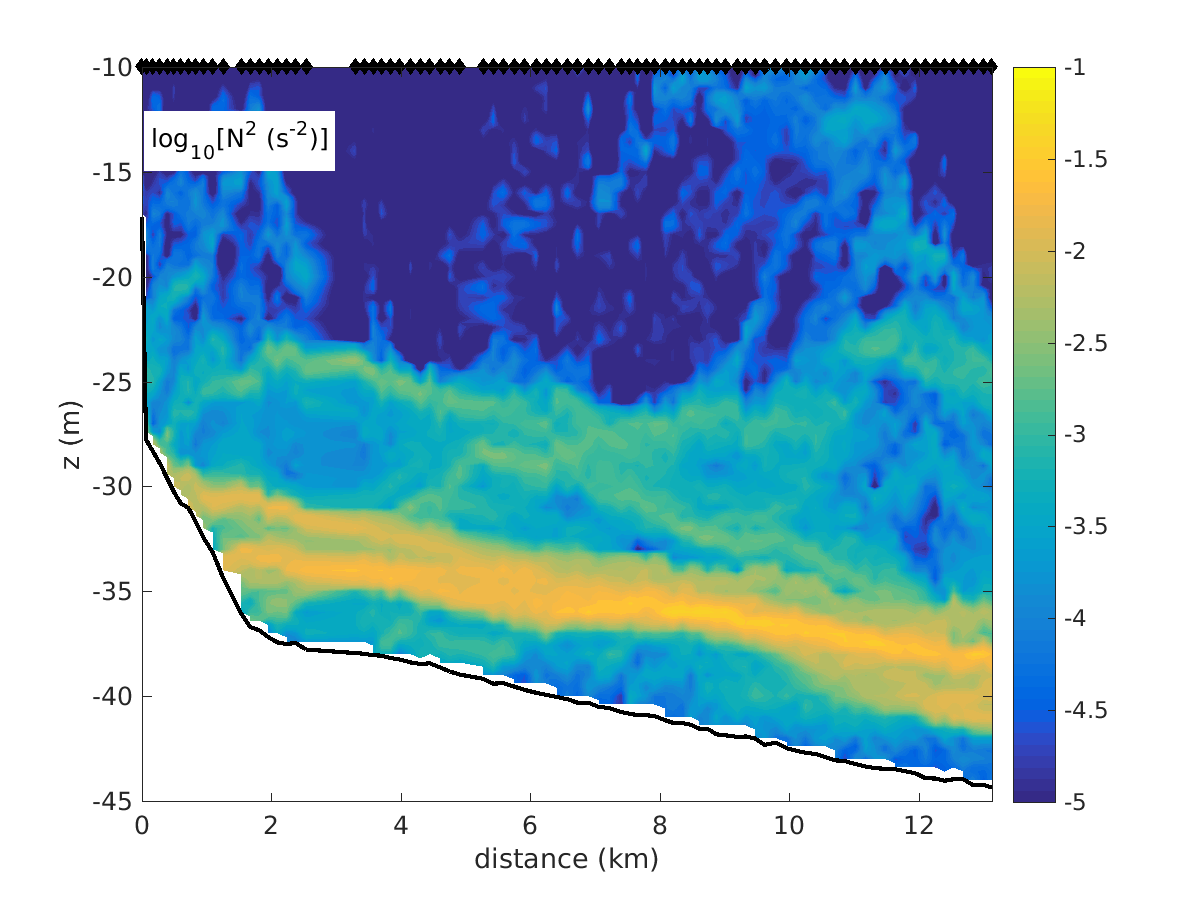
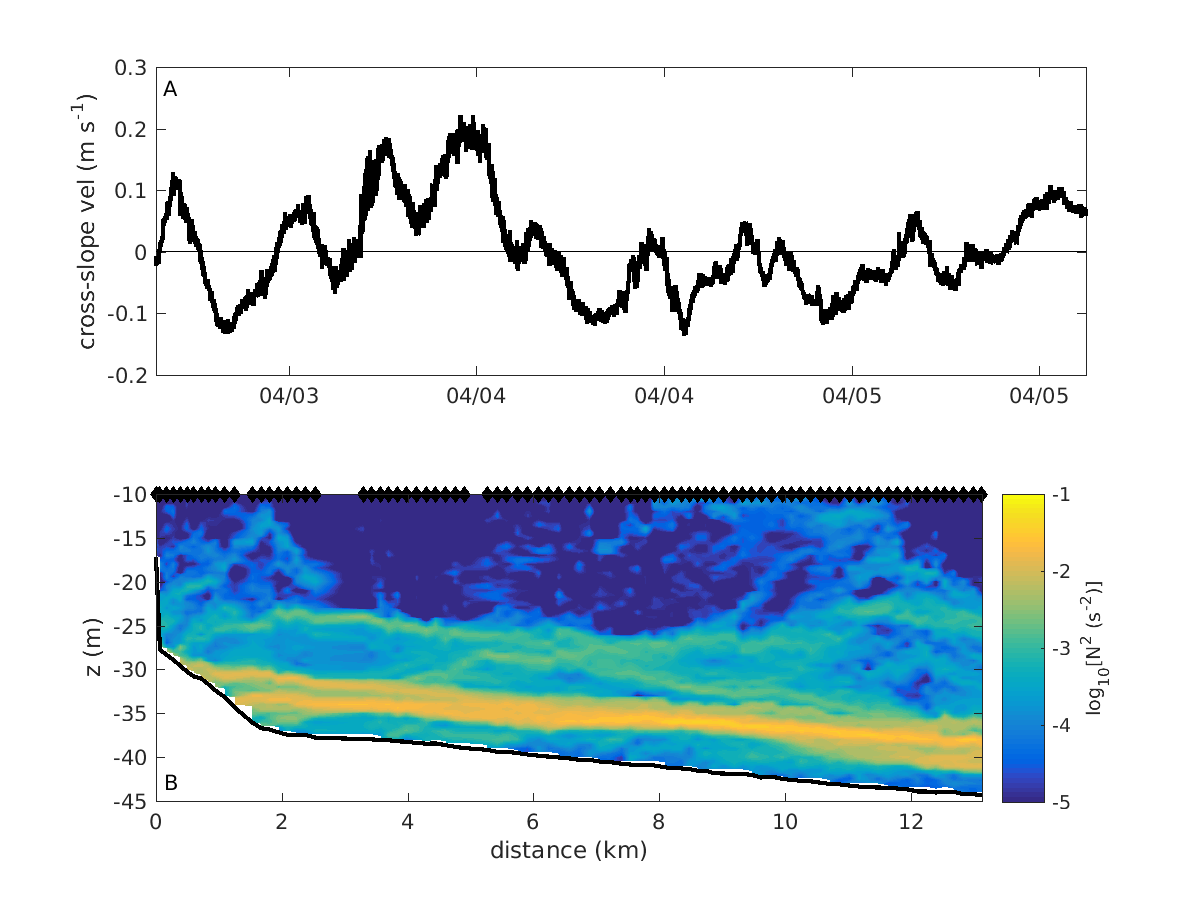
intro datenkapitel

diff --git a/kapitel-2.tex b/kapitel-2.tex
@@ -1,40 +1,123 @@
-\chapter{Measurements}
+\chapter{Sediment Transport in the German Coastal Baltic Sea}
 \label{kap-measure}
+
+ABSTRACT
 
 \section{Introduction}
 
-\section{Study Area and Instrumentation}
+The investigation of sediment transport patterns and the physical processes 
+involved is inevitable for the understanding and mapping of all near bottom 
+biogeochemical processes. Nutrients as well as pollutants are distributed or 
+accumulated together with the sediment and affect benthic communities and the 
+exchange of dissolved substances from pore water with the overlying water. 
+Especially in coastal areas, a broad variety of hydrodynamical processes affect 
+resuspension, transport and accumulation of sediments. In very shallow areas, 
+wind waves govern the sediment dynamics, whilst mean flow, near bottom 
+turbulence and interior stratification becomes more and more important on the 
+transition to the deeper areas further away from the coast.
 
-We obtained hydrographic and turbulence data at 
-several locations throughout the German coastal area during three cruises with 
-R/V \textit{Alkor} in spring 2014 (AL434, 28.03.-08.04.2014), R/V 
-\textit{Elisabeth Mann Borgese} in spring 2015 (EMB100, 09.04.-16.04.2015) and 
-R/V \textit{Maria S. Merian} in winter 2016 (MSM50, 05.01.-29.01.2016). Here, 
-we exclusively discuss data obtained in the transition zone from the coast off 
-the island R\"{u}gen (called Tromper Wiek (TW), around 30~m water depth) to 
-the approximately 45~m deep Arkona Basin (AB). The exact positions of deployed 
-moorings and ship-based microstructure profiler transects are indicated in 
-\fig{studyarea}.
+In the presence of only negligible tidal motions, coastal areas of the Baltic 
+Sea are a good opportunity to study the interplay of waves and currents and its 
+effects on sediment transport patterns. Numerous studies have already been 
+carried out to investigate suspended matter transport in the German Baltic Sea. 
+In the \textit{Ba}ltic Sea \textit{Sy}stem \textit{S}tudy (BASYS) project, the 
+pathways of fine-grained sediment from the near-shore regions to the deep 
+basins were investigated with the help of numerical models and ship-based 
+measurements \citep[][]{basys1, basys2, leipe2000}. The research project 
+\textit{Dynamic} of \textit{N}atural and \textit{A}nthropogenic 
+\textit{S}edimentation (DYNAS) investigated the spatially resolved 
+resuspension and transport patterns in the whole near-coastal area of the 
+south-western Baltic Sea, using a numerical model 
+\citep[][]{dynas1, dynas2}. These studies, amongst many others, focus mainly on 
+the large scale sediment transport and aim to identify erosional and 
+depositional areas of the sea floor. 
+
+The small-scale turbulent motions, which are an important factor for sediment 
+transport processes, have not been included in the projects mentioned above. 
+They affect the bottom shear stress that causes resuspension and determine how 
+suspended matter is mixed up in the water column. In the interdisciplinary 
+project The \textit{Se}rvice of sediments in German \textit{Co}stal 
+\textit{S}eas (SECOS), during which the present study is carried out, these 
+small-scale processes are examined with an extensive field work campaign. This 
+included ship-based micro-structure measurements and long-term mooring 
+deployments. With the combined measurement of suspended matter concentration 
+using optical backscatter sensors and mean flow structures as well as turbulent 
+motions we aim on determining the relative effect turbulence has in 
+resuspension and distribution of sediment. 
+
+One of the most interesting regions where measurements were carried out was the 
+transition zone from near-coast to a deeper basin north of the island 
+R\"{u}gen. This can be regarded as a prototype study side, as it covers shallow 
+as well as deeper areas, which are affected by waves to different extends, and 
+it includes the basin structure of the Baltic Sea. To our knowledge, 
+no turbulence measurements with focus on sediment dynamics were carried out in 
+this region so far.
+ 
+In addition, this area provides the prerequisites for the occurrence of 
+slope-induced tidal straining \citep[][]{UmlaufBurchard2011a, 
+schulzumlauf2016}, as visible in Fig.\ \ref{abslope}. Both slope angle and 
+interior vertical stratification are sufficient to trigger residual sediment 
+transport under an oscillatory current. Although tides are negligible in the 
+Baltic Sea, we discovered a distinct signal of inertial oscillations with a 
+period of approximately 17~h over the whole time of a five day continuous 
+current measurement. This setting surely exceeds the capability of the 
+one-dimensional numerical model used in \cite{schulzumlauf2016}, as the slope 
+angle changes and the vertical stratification is greatly enhanced in the 
+region of the halocline, making the problem at least two-dimensional. 
+Nevertheless, sediment transport from the basin up the slope could be induced 
+by slope-induced tidal straining under the conditions given in this region.
+
+ \begin{figure}[ht]
+\includegraphics[width=40pc]{bilder/abslope.png}
+ \caption{(b) Topographic and hydrologic structure in the study area 
+obtained from microstructure transect T1 (see Tab.\ \ref{mss} and Fig.\ 
+\ref{studyarea}) in 2016. The steep slope on the left hand side has an 
+inclination of approximately $5 \times 10^{-3}$, the mild slope further to the 
+right of around $7 \times 10^{-4}$. Color indicates the buoyancy frequency 
+$N^2$. In (a), ca. five days of the cross-slope (i.e. southward) near-bottom 
+current are displayed, obtained with a 1200~kHz ADCP in April 2014 (see Tab.\ 
+\ref{deployments}, first column.)}
+ \label{abslope}
+ \end{figure}
+ 
+\section{Study Area}
+
+The general properties of the Baltic Sea were already discussed in the last 
+chapter. Here, we give a brief introduction to the general hydrodynamic 
+processes which govern the current system near the measurement site on the one 
+hand, and the sediment distribution on the other.
+
+\subsection{Hydrology}
+
+In \fig{studyarea}, the bathymetry of the study area and its position in the 
+Western Baltic Sea is displayed. In a study on the Pomeranian Bight (i.e. the 
+shallow area connecting the Arkona Basin in the west and the Bornholm Basin in 
+the east and where the mouth of the Oder river is located), \cite{lass2001} 
+also investigated the study site described here both observationally and with a 
+high-resolution circulation model. In addition, the same authors carried out 
+measurements in two consecutive winters in the Arkona Basin and analyzed the 
+flow dynamics there \citep[][]{lass2003}. These two studies give a good insight 
+of the flow patterns in the area where our investigations were performed.
+
+They found that two major factors determine the current system here. Barotropic 
+jets originating from inflowing North Sea water follow the northern coast of 
+R\"{u}gen 
+
+LASS2001 und LASS2003 zusammenfassen.
+
  \begin{figure}[ht]
  \centering
 \includegraphics[width=17cm]{bilder/studyarea.pdf}
  \caption{Bathymetric map of the Western Baltic Sea and an enlargement of the 
-study area. Deployments during cruise AL434 are indicated in yellow, from EMB100 
-in green and from cruise MSM50 in magenta.}
+study area. Deployments during cruise AL434 are indicated in yellow, from 
+EMB100 in green and from cruise MSM50 in magenta.}
  \label{studyarea}
  \end{figure}
- 
- \begin{figure}[ht]
-\includegraphics[width=40pc]{bilder/abslope.png}
- \caption{Topographic and hydrologic structure in the study area obtained from 
-microstructure transect T1 in 2016. The steep slope on the left hand side has 
-an inclination of approximately $5 \times 10^{-3}$, the mild slope further to 
-the right of around $7 \times 10^{-4}$. Color indicates the buoynacy frequency 
-$N^2$.}
- \label{abslope}
- \end{figure}
 
- Sediment distribution in this area is heterogeneous in the shallow regions 
+ \FloatBarrier
+\subsection{Sedimentology}
+
+  Sediment distribution in this area is heterogeneous in the shallow regions 
 with predominately medium to fine sand. At water depths below 25 - 30~m in the 
 Arkona Basin, sediment is finer and consists homogeneously of silt 
 (\fig{tauberkarte}). In the vicinity of TW, a special type of fine grained and 
@@ -49,11 +132,24 @@ erosional and depositional sites in this area, yielding that the Tromper Wiek
 region is depositional as well. This study also pointed out that muddy 
 sediments accumulated below the halocline in this region.
  \begin{figure}[ht]
-\includegraphics[width=40pc]{bilder/TW.pdf}
+\includegraphics[width=30pc]{bilder/TW.pdf}
  \caption{Sediment distribution in the study area. Data were taken from 
 \cite{tauber2012}.}
  \label{tauberkarte}
  \end{figure}
+
+\section{Instrumentation}
+
+We obtained hydrographic and turbulence data at 
+several locations throughout the German coastal area during three cruises with 
+R/V \textit{Alkor} in spring 2014 (AL434, 28.03.-08.04.2014), R/V 
+\textit{Elisabeth Mann Borgese} in spring 2015 (EMB100, 09.04.-16.04.2015) and 
+R/V \textit{Maria S. Merian} in winter 2016 (MSM50, 05.01.-29.01.2016). Here, 
+we exclusively discuss data obtained in the transition zone from the coast off 
+the island R\"{u}gen (called Tromper Wiek (TW), around 30~m water depth) to 
+the approximately 45~m deep Arkona Basin (AB). The exact positions of deployed 
+moorings and ship-based microstructure profiler transects are indicated in 
+\fig{studyarea}.
 
 Three different types of moorings were deployed: A CTD-Chain consisted of eight 
 CTD-loggers (MicroCat from Seabird, USA), tied to a mooring line at intervals 

diff --git a/abschlussarbeit.tex b/abschlussarbeit.tex
@@ -37,7 +37,7 @@
 
 % New packages
 \usepackage{multirow}
-
+\usepackage{placeins}
 % Neue Kommandos
 \newcommand{\dps}[1]{\displaystyle{#1}}
 \newcommand{\eq}[1]{({\ref{#1}})}
